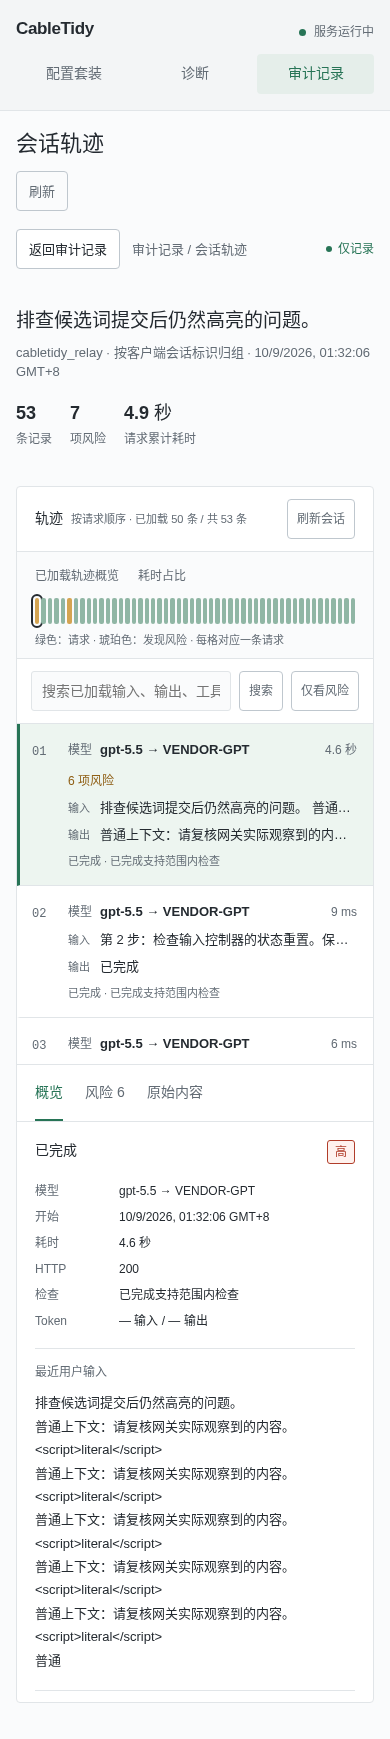
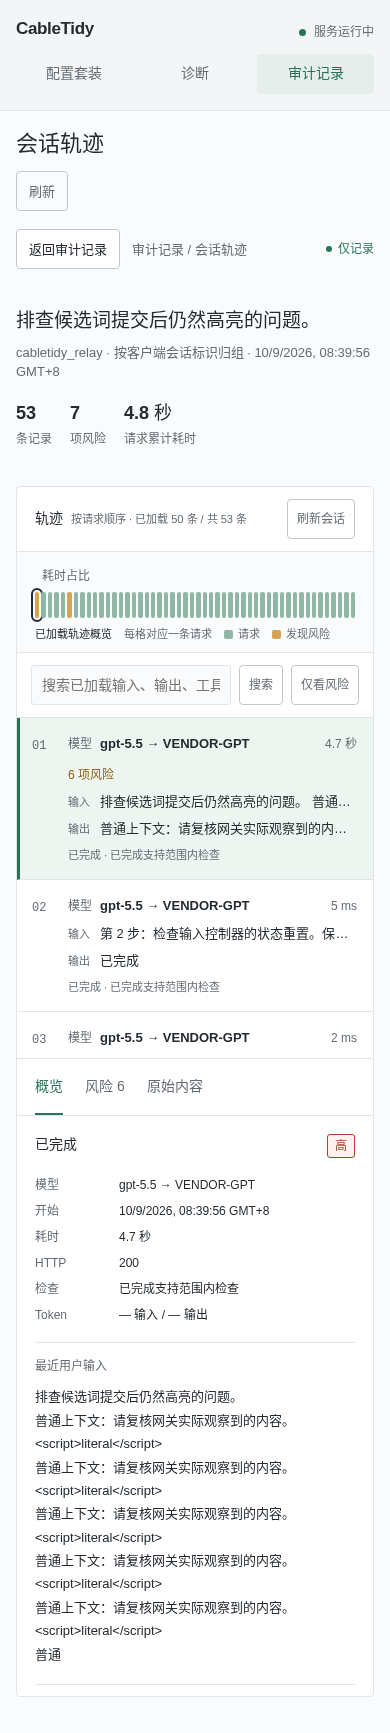
ui: refine model save and trace overview

diff --git a/web/app.js b/web/app.js
@@ -844,7 +844,7 @@ function claudeClientForm(suite) {
         ${checkboxField("在 /model 中发现此配置的模型", "discoverModels", options.discoverModels === true)}
       </div>
       <p class="field-hint">模型发现只列出已配置模型，不限制其他模型请求。Claude Code 可能过滤不含 claude 或 anthropic 的模型 ID。保存后需重新应用客户端配置。</p>
-      <div class="form-actions"><button class="button" type="submit">保存客户端设置</button></div>
+      <div class="form-actions"><button class="button" type="submit">保存模型选择</button></div>
     </form>
   </section>`;
 }
@@ -1270,6 +1270,9 @@ function renderSecuritySession() {
   const all = t.result?.items || [], items = traceItems();
   const segments = traceSegments(all);
   const maxDuration = Math.max(1, ...segments.map(item => item.duration));
+  const segmentDescription = all.length > 60
+    ? "相邻请求合并显示，点击定位该组首条请求"
+    : "每格对应一条请求";
   const positions = new Map(all.map((item, i) => [item.id, i]));
   return `<nav class="security-detail-nav"><button class="button" data-action="security-back">返回审计记录</button><span class="muted">审计记录 / 会话轨迹</span><span class="status-badge">仅记录</span></nav>
     <header class="trace-heading"><div><h2>${esc(summary ? securitySessionTitle(summary) : "会话轨迹")}</h2><p class="muted">${esc(summary?.providerId || "未记录配置")} · ${summary?.identified ? "按客户端会话标识归组" : "独立记录 · 未获取会话标识"}${summary ? ` · ${esc(securityTime(summary.firstAtMs))}` : ""}</p></div>
@@ -1277,7 +1280,7 @@ function renderSecuritySession() {
     ${t.error ? `<p class="notice warning" role="alert">${esc(t.error)}<button class="button" data-action="security-session-refresh">重试</button></p>` : ""}
     <section class="trace-workspace" aria-label="会话轨迹">
       <div class="trace-toolbar"><strong>轨迹</strong><span class="muted">按请求顺序 · 已加载 ${all.length} 条 / 共 ${esc(t.result?.total ?? "—")} 条</span><button class="mini-button" data-action="security-session-refresh" ${t.loading ? "disabled" : ""}>${t.loading ? "读取中…" : "刷新会话"}</button></div>
-      <div class="trace-overview"><div class="trace-scale"><span>已加载轨迹概览</span><button data-action="security-trace-scale" aria-pressed="${t.scale === "duration"}">耗时占比</button></div><div class="trace-minimap" aria-label="请求导航">${segments.map(item => { const label = item.first === item.last ? `请求 ${item.first}` : `请求 ${item.first}–${item.last}`; return `<button class="trace-segment ${item.findings ? "has-risk" : ""} ${item.selected ? "is-selected" : ""}" style="flex-grow:${t.scale === "duration" ? Math.max(.2, item.duration / maxDuration * 10) : item.last - item.first + 1}" data-action="security-trace-select" data-id="${esc(item.id)}" title="${label} · ${esc(securityDuration(item.duration))} · ${item.findings} 项风险" aria-label="选择${label}" aria-pressed="${item.selected}"></button>`; }).join("")}</div><p class="muted">绿色：请求 · 琥珀色：发现风险 · ${t.scale === "duration" ? "宽度表示已记录的请求耗时（最小宽度便于点击）" : all.length > 60 ? "相邻请求合并显示，点击定位该组首条请求" : "每格对应一条请求"}</p></div>
+      <div class="trace-overview"><div class="trace-scale-row"><button class="mini-button trace-scale-toggle" data-action="security-trace-scale" aria-pressed="${t.scale === "duration"}" title="${t.scale === "duration" ? "当前按耗时分配宽度，点击恢复按请求数分配" : "点击按已记录的请求耗时分配宽度"}">耗时占比</button></div><div class="trace-minimap" aria-label="请求导航">${segments.map(item => { const label = item.first === item.last ? `请求 ${item.first}` : `请求 ${item.first}–${item.last}`; return `<button class="trace-segment ${item.findings ? "has-risk" : ""} ${item.selected ? "is-selected" : ""}" style="flex-grow:${t.scale === "duration" ? Math.max(.2, item.duration / maxDuration * 10) : item.last - item.first + 1}" data-action="security-trace-select" data-id="${esc(item.id)}" title="${label} · ${esc(securityDuration(item.duration))} · ${item.findings} 项风险" aria-label="选择${label}" aria-pressed="${item.selected}"></button>`; }).join("")}</div><p class="trace-overview-caption"><strong>已加载轨迹概览</strong><span>${segmentDescription}</span><span class="trace-legend"><i class="trace-legend-swatch trace-request-swatch" aria-hidden="true"></i>请求</span><span class="trace-legend"><i class="trace-legend-swatch trace-risk-swatch" aria-hidden="true"></i>发现风险</span>${t.scale === "duration" ? "<span>宽度表示已记录的请求耗时（最小宽度便于点击）</span>" : ""}</p></div>
       <div class="trace-columns"><section class="trace-events" aria-label="请求列表"><form id="security-trace-search" class="trace-search"><input name="search" aria-label="搜索已加载轨迹" placeholder="搜索已加载输入、输出、工具或模型" value="${esc(t.search)}"><button class="mini-button" type="submit">搜索</button><button class="mini-button" type="button" data-action="security-trace-risk" aria-pressed="${t.riskOnly}">仅看风险</button></form>
         <div class="trace-event-list" tabindex="0" aria-label="可滚动请求列表" aria-busy="${t.loadingMore}">${items.map(item => { const i = positions.get(item.id); return `<button class="trace-event-row ${s.detailId === item.id ? "is-selected" : ""}" data-action="security-trace-select" data-id="${esc(item.id)}" aria-pressed="${s.detailId === item.id}"><span class="trace-order">${String(i + 1).padStart(2,"0")}</span><span class="trace-event-main"><span class="trace-event-meta"><span class="trace-event-models"><span>模型</span><strong title="${esc(securityModelMapping(item))}">${esc(securityModelMapping(item))}</strong></span><span>${esc(securityDuration(item.durationMs))}</span>${item.findingCount ? `<span class="trace-risk-count">${esc(item.findingCount)} 项风险</span>` : ""}</span><span class="trace-event-preview"><span>输入</span>${esc(item.requestPreview || (item.kind === "request" ? "无文本摘要，查看原始内容" : securityLabel("action", item.action)))}</span><span class="trace-event-preview"><span>输出</span>${esc(item.responsePreview || securityLabel("outcome", item.outcome))}</span>${item.toolNames?.length ? `<span class="trace-event-tools">工具提议 · ${item.toolNames.map(esc).join(" · ")}</span>` : ""}<span class="trace-event-status">${esc(securityLabel("outcome", item.outcome))} · ${esc(securityInspectionLabel(item))}</span></span></button>`; }).join("") || `<p class="empty" role="status">${t.loading ? "正在读取轨迹…" : all.length ? "已加载的轨迹中没有匹配的步骤。可继续向下加载，或清空搜索与筛选。" : "会话暂无记录，或已超出保留范围。"}</p>`}<div class="trace-load-status" role="status">${t.moreError ? `<span>${esc(t.moreError)}</span><button class="mini-button" data-action="security-trace-more">重试加载</button>` : t.loadingMore ? "正在加载更多请求…" : t.result?.nextCursor ? `<span>向下滚动加载更多请求</span><button class="mini-button" data-action="security-trace-more">继续加载</button>` : all.length ? "已显示全部请求" : ""}</div></div>
       </section><aside class="trace-inspector" aria-label="选中步骤详情">${renderTraceInspector()}</aside></div>
@@ -1902,7 +1905,10 @@ async function handleFormSubmit(event, form) {
       "model-form": () => saveModel(data, form),
     };
     if (!handlers[formId]) throw new Error("无法保存此表单，请刷新页面后重试。");
-    await saveChanges(handlers[formId], form);
+    const successAlert = formId === "claude-client-form"
+      ? "模型选择已保存。请点击“应用到 Claude Code”，重新应用配置后才会生效。"
+      : "";
+    await saveChanges(handlers[formId], form, undefined, successAlert);
   } catch (error) {
     showFormError(form, error);
   } finally {
@@ -2311,7 +2317,7 @@ async function applyTarget() {
   render();
 }
 
-async function saveChanges(update, form, successMessage = "配置已保存并生效。") {
+async function saveChanges(update, form, successMessage = "配置已保存并生效。", successAlert = "") {
   const previous = {
     page: state.page,
     selected: clone(state.selected),
@@ -2352,7 +2358,8 @@ async function saveChanges(update, form, successMessage = "配置已保存并生
     state.pendingSecrets = { upstreamSecrets: {} };
   }
   render(state.page === previous.page ? preservedForms : []);
-  toast(successMessage);
+  if (successAlert) window.alert?.(successAlert);
+  else toast(successMessage);
 }
 
 async function refresh(showToast = true) {

diff --git a/web/styles.css b/web/styles.css
@@ -1219,15 +1219,21 @@ button.list-row:hover,
 .trace-toolbar { display: flex; gap: 16px; align-items: center; padding: 12px 18px; border-bottom: 1px solid var(--line); }
 .trace-toolbar > button { margin-left: auto; }
 .trace-overview { padding: 12px 18px 10px; background: var(--paper); border-bottom: 1px solid var(--line); }
-.trace-scale { display: flex; align-items: center; gap: 12px; font-size: 12px; color: var(--muted); }
-.trace-scale button { background: transparent; border: 0; border-radius: 3px; padding: 3px 7px; color: inherit; }
-.trace-scale button[aria-pressed="true"] { color: var(--accent); background: var(--accent-soft); }
-.trace-minimap { display: flex; gap: 2px; align-items: stretch; height: 26px; margin-top: 10px; }
+.trace-scale-row { display: flex; justify-content: flex-start; margin-bottom: 4px; }
+.trace-minimap { display: flex; gap: 2px; align-items: stretch; height: 26px; }
 .trace-segment { min-width: 1px; flex-basis: 0; padding: 0; background: #90b6a5; border: 0; border-radius: 2px; }
 .trace-segment.has-risk { background: #d4a452; }
 .trace-segment.is-selected { outline: 2px solid var(--ink); outline-offset: 2px; }
 .trace-segment:hover { filter: brightness(.9); }
-.trace-overview > p { margin: 8px 0 0; font-size: 11px; }
+.trace-overview-caption { display: flex; align-items: center; flex-wrap: wrap; gap: 4px 12px; min-width: 0; margin: 8px 0 0; color: var(--muted); font-size: 11px; }
+.trace-overview-caption > strong { color: var(--ink); font-weight: 600; }
+.trace-legend { display: inline-flex; align-items: center; gap: 5px; white-space: nowrap; }
+.trace-legend-swatch { width: 9px; height: 9px; flex: 0 0 auto; border-radius: 2px; }
+.trace-request-swatch { background: #90b6a5; }
+.trace-risk-swatch { background: #d4a452; }
+.trace-scale-toggle { flex: 0 0 auto; min-height: 0; padding: 3px 7px; border: 0; border-radius: 3px; color: var(--muted); background: transparent; font-size: 12px; }
+.trace-scale-toggle:hover { color: var(--ink); }
+.trace-scale-toggle[aria-pressed="true"] { color: var(--accent); background: var(--accent-soft); }
 .trace-columns { display: grid; grid-template-columns: minmax(0, 1.35fr) minmax(340px, 1fr); min-height: 430px; height: min(680px, 64dvh); }
 .trace-events { min-width: 0; display: flex; flex-direction: column; min-height: 0; }
 .trace-search { padding: 12px 14px; display: flex; gap: 8px; border-bottom: 1px solid var(--line); }
